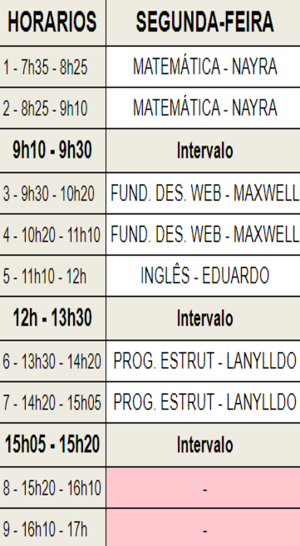
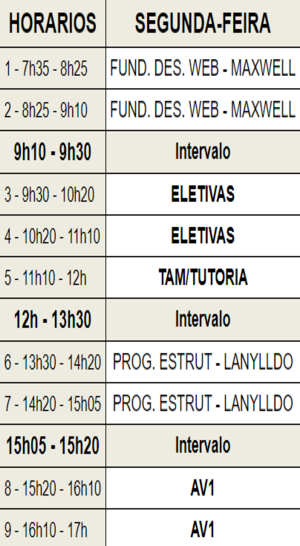
atualizando horario de aula e cronograma de provas

diff --git a/provas.html b/provas.html
@@ -42,7 +42,7 @@
     </header>
 
     <main>
-        <h1>Cronograma de Provas</h1>
+        <h1>Cronograma de Provas Av1</h1>
         <div class="accordion">
             <div class="contentBx">
                 <div class="label"><s>Rede de Computadores - 25/03</s></div>
@@ -102,21 +102,21 @@
             </div>
 
             <div class="contentBx">
-                <div class="label">Biologia - 15/04</div>
+                <div class="label"><s>Química - 15/04</s></div>
                 <div class="content">
                     <h1 class="noTask">Sem Atividades no momento</h1>
                 </div>
             </div>
 
             <div class="contentBx">
-                <div class="label">Desenvolvimento Web - 15/04</div>
+                <div class="label"><s>Desenvolvimento Web - 15/04</s></div>
                 <div class="content">
                     <h1 class="noTask">Sem Atividades no momento</h1>
                 </div>
             </div>
 
             <div class="contentBx">
-                <div class="label">Quimica - 22/04</div>
+                <div class="label">Biologia - 22/04</div>
                 <div class="content">
                     <h1 class="noTask">Sem Atividades no momento</h1>
                 </div>
@@ -135,6 +135,38 @@
                     <h1 class="noTask">Sem Atividades no momento</h1>
                 </div>
             </div>
+        </div>
+
+        <h1>Cronograma de Provas Av3</h1>
+        <div class="accordion">
+            <div class="contentBx">
+                <div class="label">Base Técnica - 00/04</div>
+                <div class="content">
+                    <h1 class="noTask">Sem Atividades no momento</h1>
+                </div>
+            </div>
+
+            <div class="contentBx">
+                <div class="label">Linguagens - 00/04</div>
+                <div class="content">
+                    <h1 class="noTask">Sem Atividades no momento</h1>
+                </div>
+            </div>
+
+            <div class="contentBx">
+                <div class="label">Humanas - 00/04</div>
+                <div class="content">
+                    <h1 class="noTask">Sem Atividades no momento</h1>
+                </div>
+            </div>
+
+            <div class="contentBx">
+                <div class="label">Exatas - 00/04</div>
+                <div class="content">
+                    <h1 class="noTask">Sem Atividades no momento</h1>
+                </div>
+            </div>
+            
         </div>
     </main>
 
